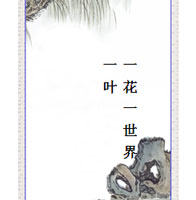
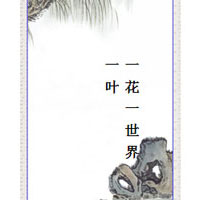
change

diff --git a/index.html b/index.html
@@ -43,17 +43,17 @@
 	.through li em{width:4px;height:0;background: #0bffca;position:absolute;right:0;bottom:0;transition:.4s all ease;}
 	.through li strong{width:0;height:4px;background: #0bffca;position:absolute;right:0;bottom:0;transition:.4s all ease;}
 	.through li a{ width:100%;height:100%; background: #b800b8;font-size: 28px;font-weight: bold; opacity: 0.3;filter:alpha(opacity=30);position: absolute;left:0;top:-200px;font-size: 14px;color:#fff;line-height: 100%;text-align: center; -moz-opacity:0.3;-khtml-opacity: 0.3;}
-	.li_t1{ background-image: url(images/li_t1.png);background-size:cover; }
-	.li_t2{ background: url(images/li_t2.png);background-size:cover; }
-	.li_t3{ background: url(images/li_t3.png);background-size:cover; }
-	.li_t4{ background: url(images/li_t4.png);background-size:cover; }
-	.li_t5{ background: url(images/li_t5.png);background-size:cover; }
-	.li_t6{ background: url(images/li_t6.png);background-size:cover; }
-	.li_t7{ background: url(images/li_t7.png);background-size:cover; }
-	.li_t8{ background: url(images/li_t8.png);background-size:cover; }
+	.li_t1{ background-image: url(images/li_t1.jpg);background-size:cover; }
+	.li_t2{ background: url(images/li_t2.jpg);background-size:cover; }
+	.li_t3{ background: url(images/li_t3.jpg);background-size:cover; }
+	.li_t4{ background: url(images/li_t4.jpg);background-size:cover; }
+	.li_t5{ background: url(images/li_t5.jpg);background-size:cover; }
+	.li_t6{ background: url(images/li_t6.jpg);background-size:cover; }
+	.li_t7{ background: url(images/li_t7.jpg);background-size:cover; }
+	.li_t8{ background: url(images/li_t8.jpg);background-size:cover; }
 	.li_t9{ background: url(images/li_t9.jpg);background-size:cover; }
-	.li_t10{ background: url(images/li_t10.png);background-size:cover; }
-	.li_t11{ background: url(images/li_t11.png);background-size:cover; }
+	.li_t10{ background: url(images/li_t10.jpg);background-size:cover; }
+	.li_t11{ background: url(images/li_t11.jpg);background-size:cover; }
 	.li_t12{ background: url(images/li_t12.jpg);background-size:cover; }
 	.resume{ width:350px;height:600px;position: absolute;left:50%;top:70px;margin-left:-175px;}
 	.contect_p1{position: absolute;left:0;top:45%;width:270px;height:30px;font-size: 24px;line-height: 30px;text-align: left;color: #0bffca;opacity: 0;filter:alpha(opacity=0); margin-left:-135px;margin-top:-15px;background: #cc007d;}
